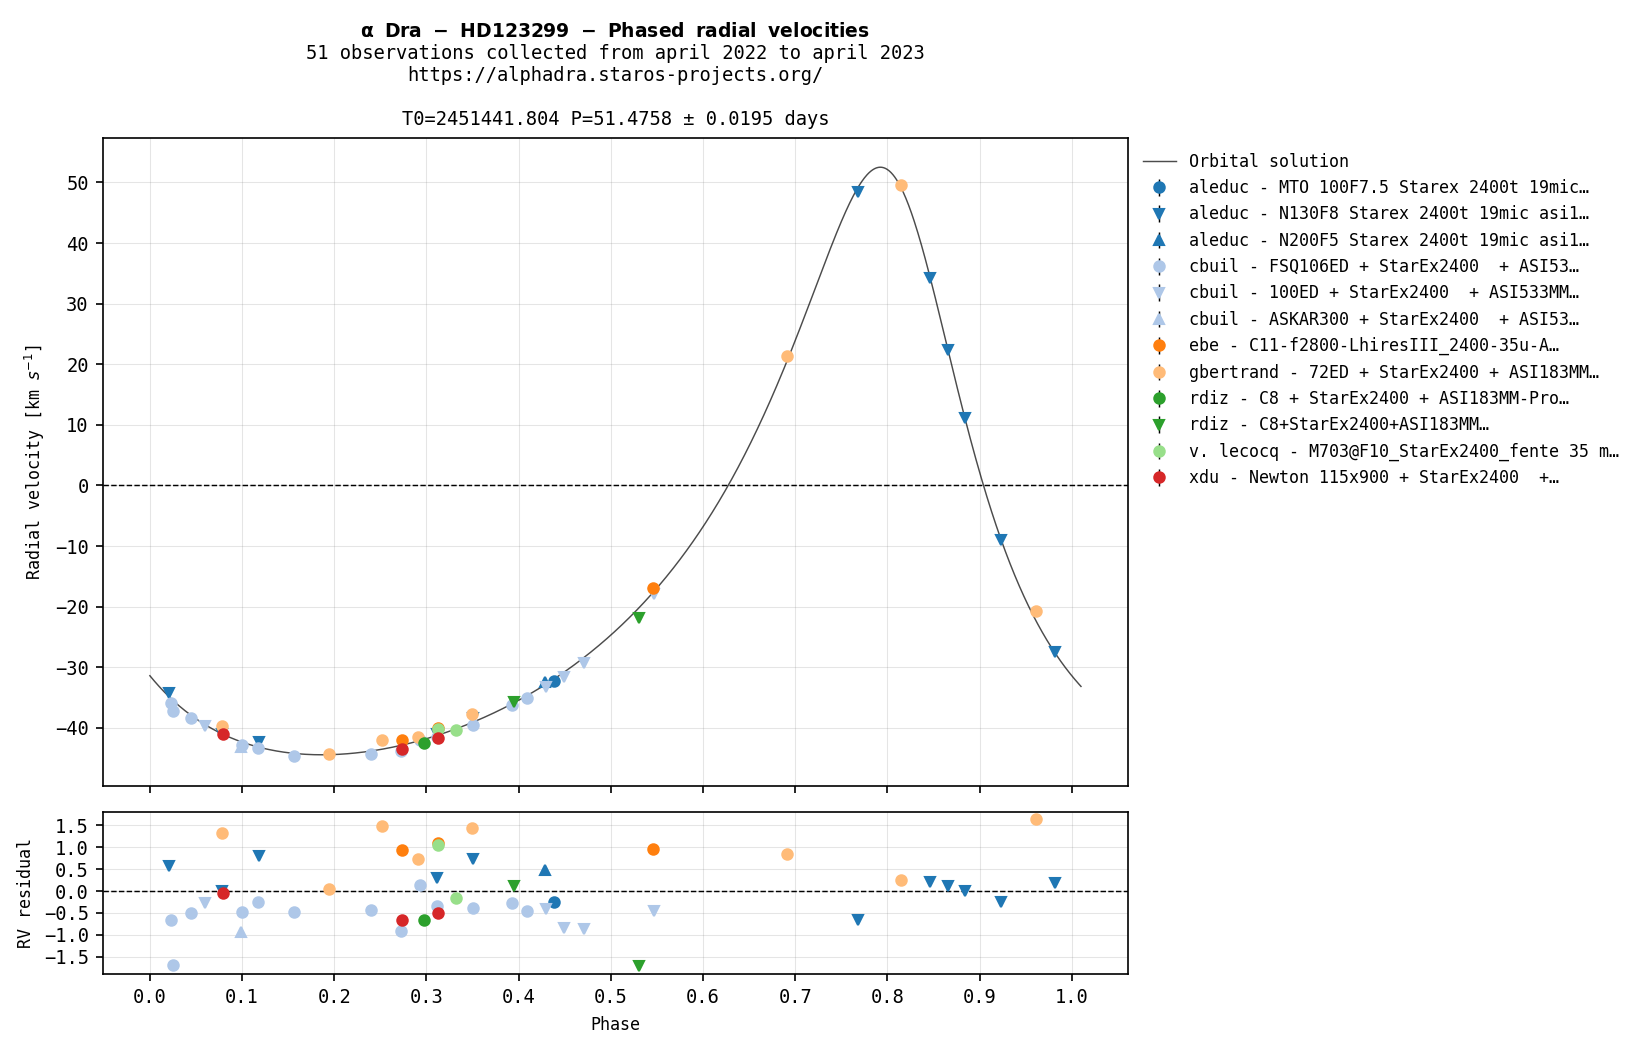
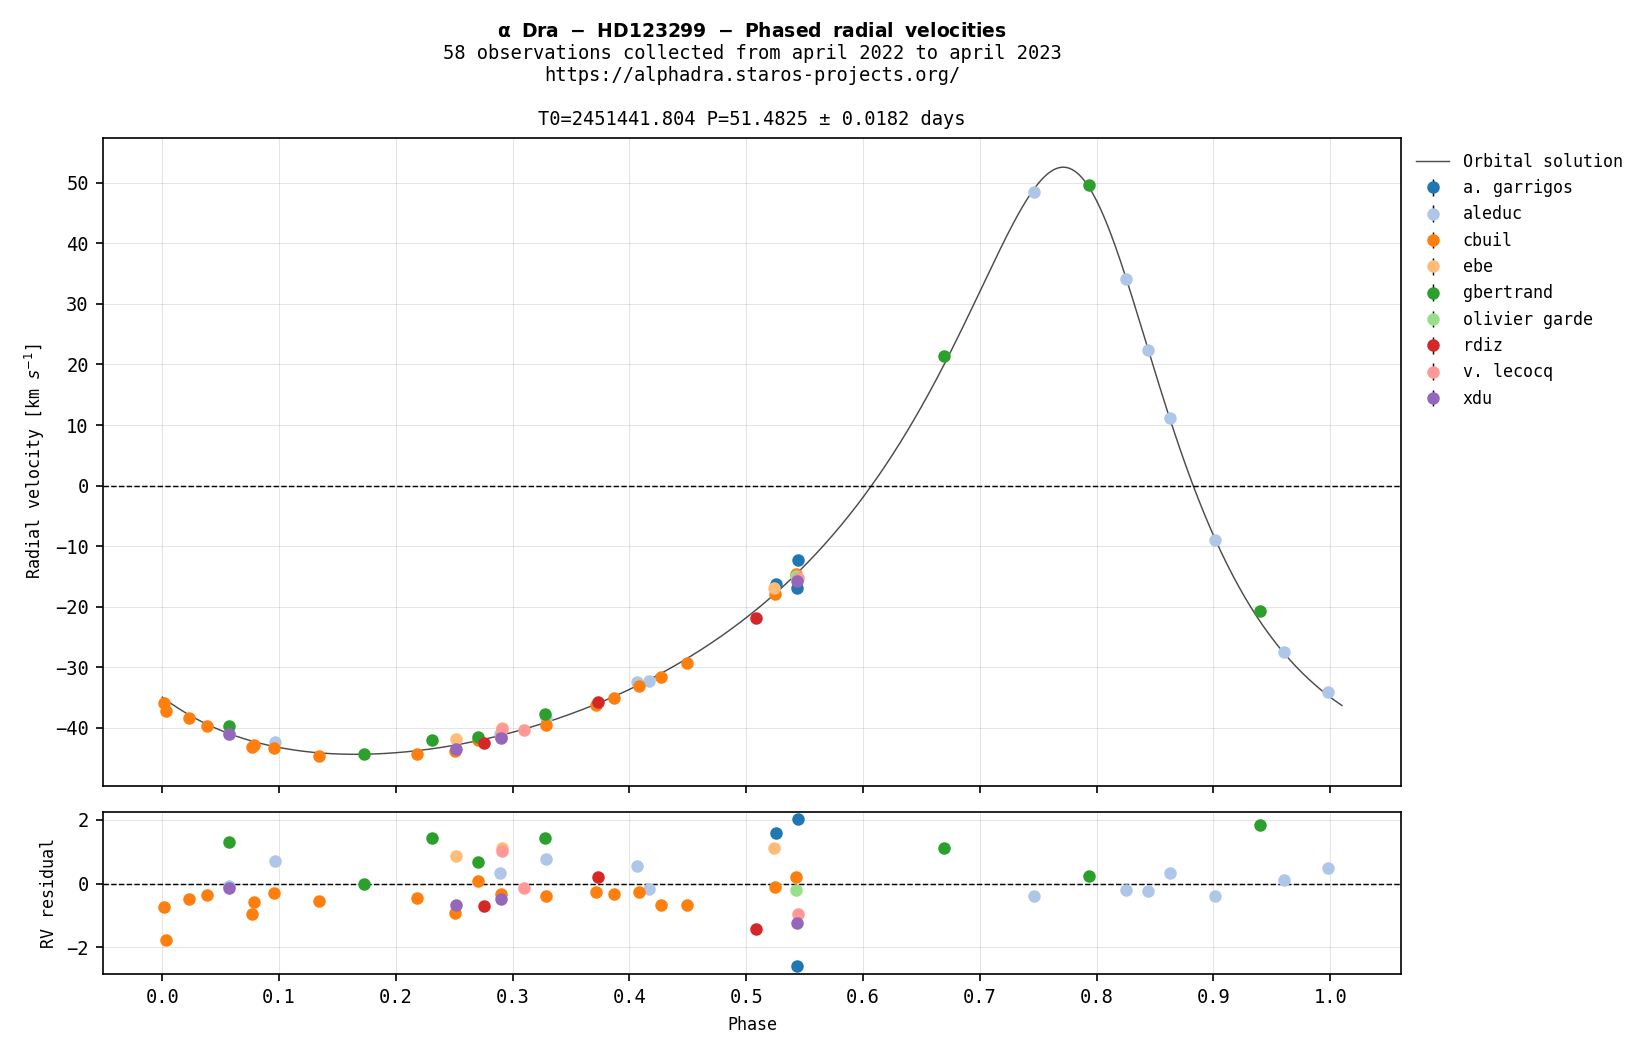
new data + minor update > add group_by_instruments param

diff --git a/spectroscopicbinarysystem/__init__.py b/spectroscopicbinarysystem/__init__.py
@@ -431,7 +431,7 @@ class SpectroscopicBinarySystem:
         array = np.asarray(array)
         return (np.abs(array - value)).argmin()
 
-    def __plotRadialVelocityDots(self, axs, t0):
+    def __plotRadialVelocityDots(self, axs, t0, group_by_instruments=False):
         """
         Plot the radial velocity dots from the data
         :param axs: axes to plot
@@ -461,27 +461,34 @@ class SpectroscopicBinarySystem:
             if (obs not in observers.keys()):
                 observers[obs] = colors[color_number]
                 color_number += 1
+                if not group_by_instruments:
+                    axs[0].errorbar(s.getPhase(), s.getRV(), yerr=0,
+                                    fmt='o', ecolor='k', label=obs, capsize=0, color=observers[obs], lw=.7, markersize=5)
+            elif not group_by_instruments:
+                axs[0].errorbar(s.getPhase(), s.getRV(), yerr=0,
+                                fmt='o', ecolor='k', capsize=0, color=observers[obs], lw=.7, markersize=5)
             color = observers[obs]
 
             # get the instrument
-
-            label = f"{obs} - {s.getInstrument()[:30]}…"
-            if label not in instruments.keys():
-                if obs not in marker_index:
-                    marker_index[obs] = 0
-                instruments[label] = markers_style[marker_index[obs]]
-                marker_index[obs] += 1
-                axs[0].errorbar(s.getPhase(), s.getRV(
-                ), yerr=0, label=label, ecolor='k', capsize=0, fmt=instruments[label], color=color, lw=0.7, markersize=5)
-            else:
-                axs[0].errorbar(s.getPhase(), s.getRV(), yerr=0,
-                                fmt=instruments[label], ecolor='k', capsize=0, color=color, lw=.7, markersize=5)
+            if (group_by_instruments):
+                label = f"{obs} - {s.getInstrument()[:30]}…"
+                if label not in instruments.keys():
+                    if obs not in marker_index:
+                        marker_index[obs] = 0
+                    instruments[label] = markers_style[marker_index[obs]]
+                    marker_index[obs] += 1
+                    axs[0].errorbar(s.getPhase(), s.getRV(
+                    ), yerr=0, label=label, ecolor='k', capsize=0, fmt=instruments[label], color=color, lw=0.7, markersize=5)
+                else:
+                    axs[0].errorbar(s.getPhase(), s.getRV(), yerr=0,
+                                    fmt=instruments[label], ecolor='k', capsize=0, color=color, lw=.7, markersize=5)
 
             xindex = self.__findNearest(self._model_x, s.getPhase())
+            fmt = instruments[label] if group_by_instruments else 'o'
             axs[1].errorbar(s.getPhase(), s.getRV() - self._model_y[xindex],
-                            yerr=0, fmt=instruments[label], ecolor='k', capsize=0, color=color, lw=.7, markersize=5)
+                            yerr=0, fmt=fmt, ecolor='k', capsize=0, color=color, lw=.7, markersize=5)
 
-    def plotRadialVelocityCurve(self, title="", subtitle="", rv_y_multiple=10, residual_y_multiple=0.5, savefig=False, dpi=150, font_family='monospace', font_size=9):
+    def plotRadialVelocityCurve(self, title="", subtitle="", rv_y_multiple=10, residual_y_multiple=None, savefig=False, dpi=150, font_family='monospace', font_size=9, group_by_instruments=False):
         if not self._orbital_solution:
             self.__solveSystem()
 
@@ -508,7 +515,7 @@ class SpectroscopicBinarySystem:
                     alpha=0.7, lw=0.7, label='Orbital solution')
 
         # plot dots
-        self.__plotRadialVelocityDots(axs, self._t0)
+        self.__plotRadialVelocityDots(axs, self._t0, group_by_instruments)
 
         split_oname = title.split(' ')
         t = ''.join(r"$\bf{%s}$ " % (w) for w in split_oname)
@@ -517,10 +524,13 @@ class SpectroscopicBinarySystem:
         axs[0].set_title("%s\n%s" % (t, subtitle), fontsize=9,
                          fontweight="0", color='black')
 
-        axs[0].yaxis.set_major_locator(MultipleLocator(rv_y_multiple))
+        if rv_y_multiple:
+            axs[0].yaxis.set_major_locator(MultipleLocator(rv_y_multiple))
         axs[0].axhline(0, color='black', linewidth=0.7, linestyle="--")
 
-        axs[1].yaxis.set_major_locator(MultipleLocator(residual_y_multiple))
+        if residual_y_multiple:
+            axs[1].yaxis.set_major_locator(
+                MultipleLocator(residual_y_multiple))
         axs[1].axhline(0, color='black', linewidth=0.7, linestyle="--")
 
         axs[0].legend(bbox_to_anchor=(1, 1), loc="upper left",
